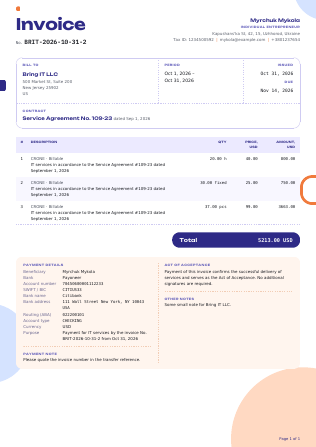
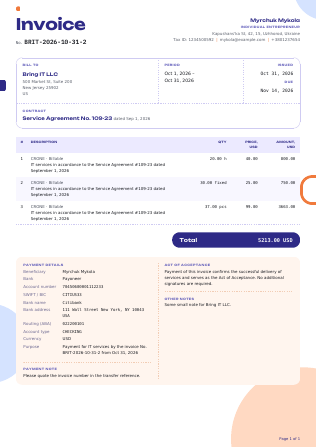
fix: the payment details' rows in the invoice PDF are 3 pt apart, which the card's own cell rule used to zero

Changed region(s): [[0.0285, 0.6107, 0.4557, 0.8434], [0.7975, 0.8143, 0.9684, 0.8725], [0.4842, 0.7271, 0.5127, 0.7852]]

diff --git a/resources/invoice-styles/base.css b/resources/invoice-styles/base.css
@@ -28,7 +28,8 @@ table.layout tr.row-contract td { padding-top:12pt; }
 .card .lbl { font-weight:bold; }
 .label.role { margin:1pt 0 3pt; }
 table.kv { width:100%; table-layout:auto; }
-table.kv td { padding:0 0 1.5pt; vertical-align:top; }
+/* The payment details' rows, 3pt apart; `tr` outranks `table.card-cols td`, which comes later and would zero them */
+table.kv tr td { padding:0 0 3pt; vertical-align:top; }
 table.kv td.k { white-space:nowrap; color:#5A5F6B; padding-right:12pt; }
 table.kv td.v { color:#17191F; word-wrap:break-word; }
 .party-name { font-size:9.5pt; line-height:13pt; font-weight:bold; color:#17191F; }

diff --git a/docs/specs/invoice.md b/docs/specs/invoice.md
@@ -212,7 +212,8 @@ A4 portrait, in points; the body is DejaVu Sans 7.5 pt on 11.5 pt lines, the ink
 **Card** (`v3/card`):
 - Left, PAYMENT DETAILS: a key–value grid of beneficiary, bank, IBAN, account number and SWIFT / BIC (when set), the
   account's own details as they were typed, the currency, and finally Purpose (the payment purpose). The keys share
-  one measured width. The payment note, when on, follows as a `.card-section` titled PAYMENT NOTE.
+  one measured width; the rows are 3 pt apart (2026-10-30, the owner: they had none, as `table.card-cols td` zeroed
+  `table.kv td`'s 1.5 pt). The payment note, when on, follows as a `.card-section` titled PAYMENT NOTE.
 - Right: ACT OF ACCEPTANCE when the act note is on, then OTHER NOTES when the other note is on (a `.card-section` when
   the act is shown too).
 - Both notes may print at once. With neither the act nor the other note, the details take the card's full width.
